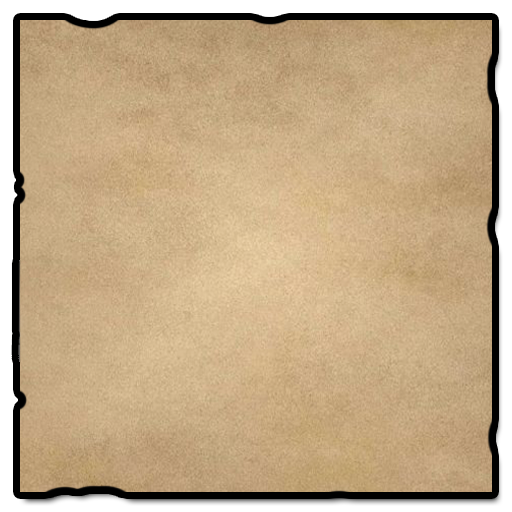
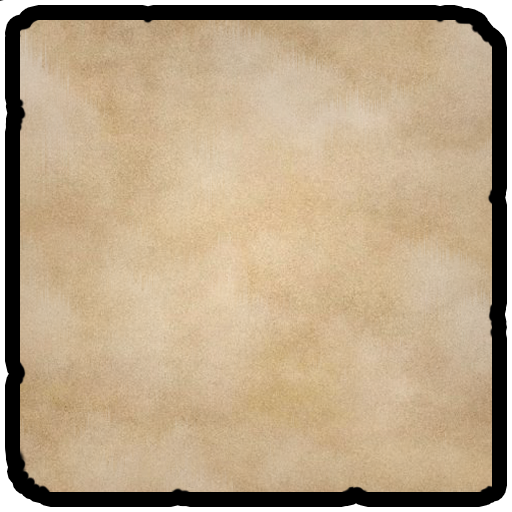
メニュー背景を調整

diff --git a/Project/GameSources/GameStage.cpp b/Project/GameSources/GameStage.cpp
@@ -159,7 +159,7 @@ namespace basecross {
 		
 
 		Vec3 bossHpPosition = Vec3(-400.0f, 400.0f - 20.0f, 0.0f);
-		Vec3 playerHpPosition = Vec3(-210.0f, -353.0f, 0.0f);
+		Vec3 playerHpPosition = Vec3(-270.0f, -353.0f, 0.0f);
 		m_NormalIcon = AddGameObject<NormalIcon>(L"ACTION_PANCH", Vec3(393.0f, -257.0f, 0.0f), Col4(1, 1, 1, 0.5f), Col4(1, 1, 1, 1.0f), 0.5f);
 		m_NormalIcon->SetInput(XINPUT_GAMEPAD_A);
 		m_Icon = AddGameObject<NormalIcon>(L"ACTION_DASH", Vec3(287.0f, -158.0f, 0.0f), Col4(1, 1, 1, 0.5f), Col4(1, 1, 1, 1.0f), 0.5f);
